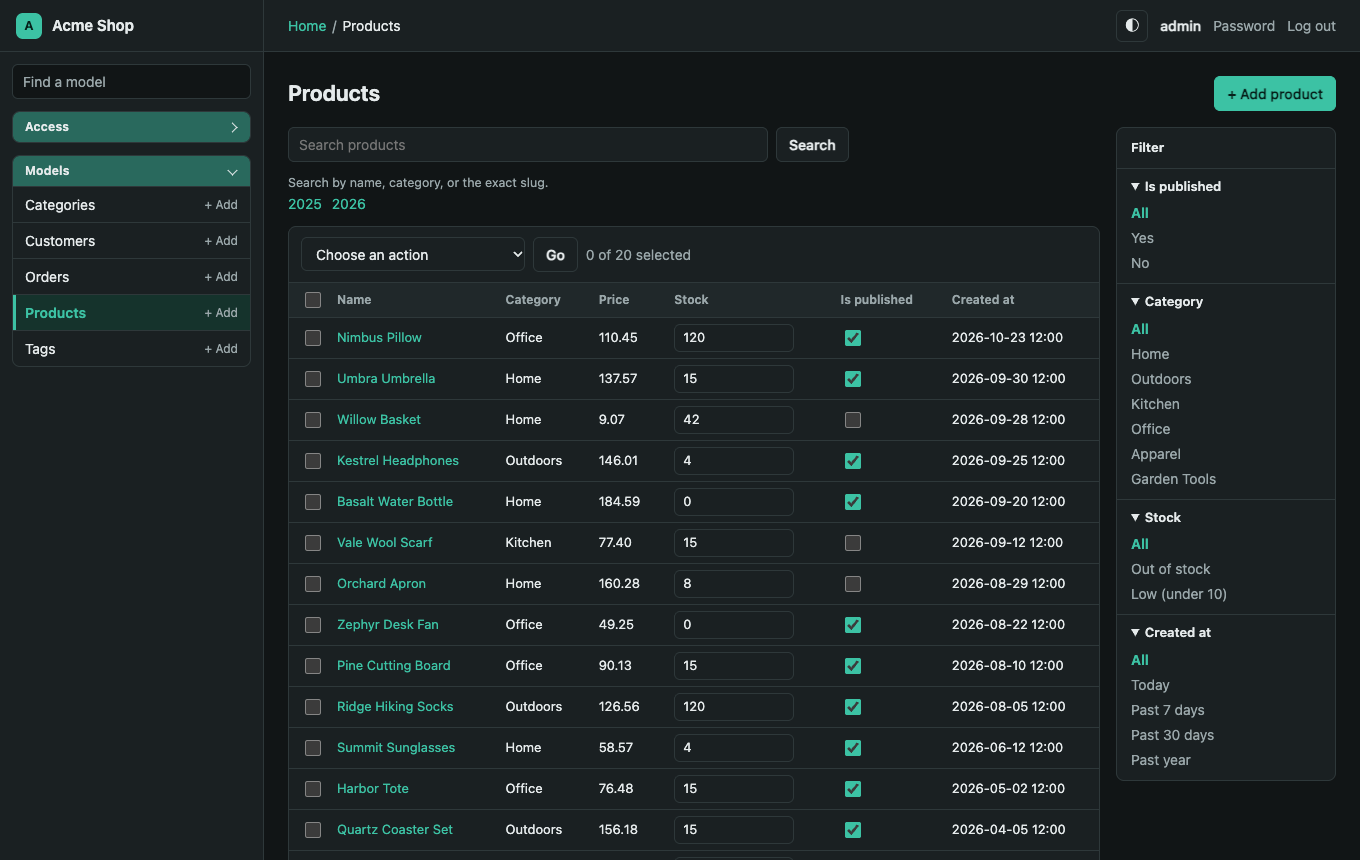
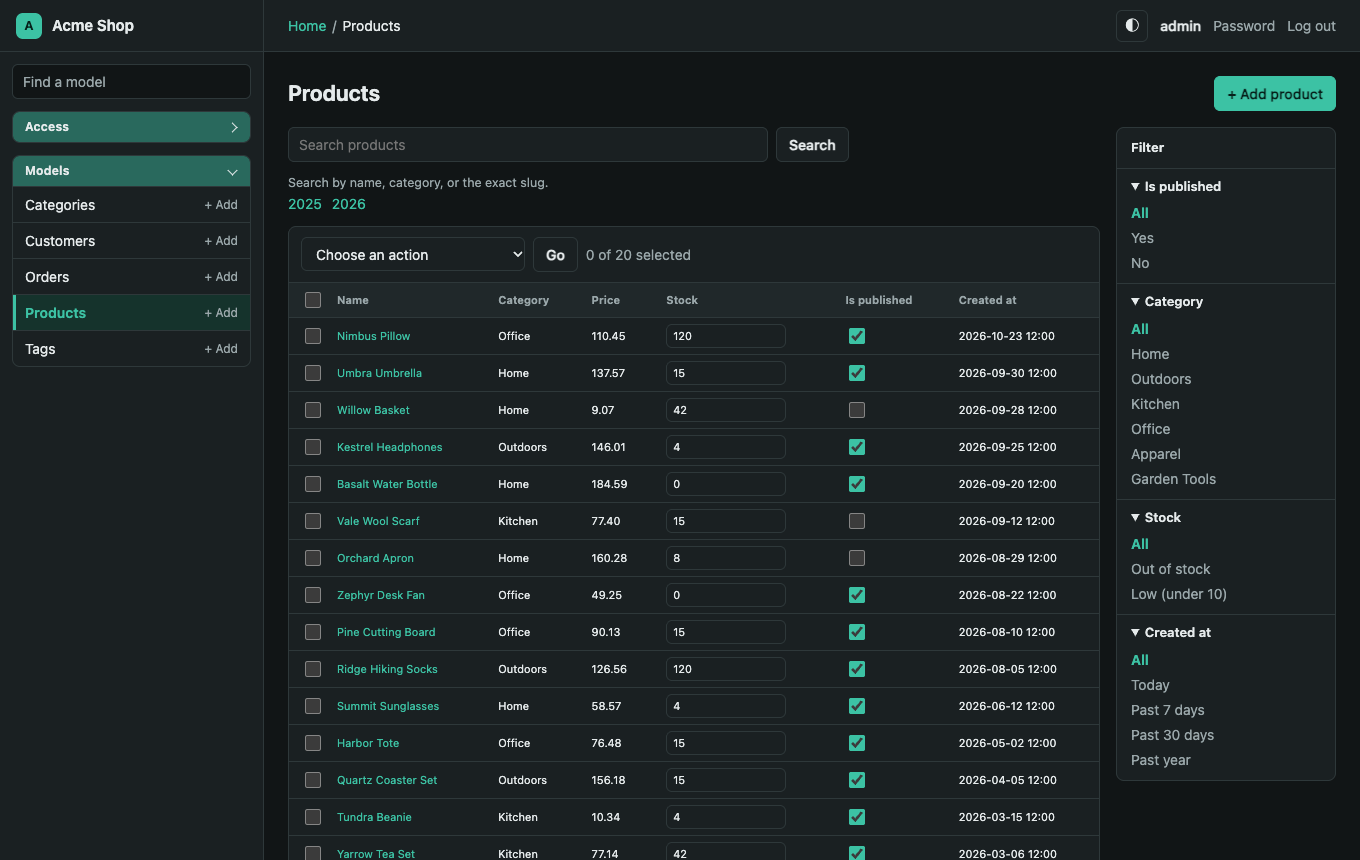
style: set table text to 11px

diff --git a/src/fastapi_panel/static/panel.css b/src/fastapi_panel/static/panel.css
@@ -216,12 +216,12 @@ input[type="checkbox"] { width: 16px; height: 16px; accent-color: var(--accent);
 
 /* Tables */
 .table-wrap { overflow-x: auto; }
-.table { width: 100%; border-collapse: collapse; font-size: 13px; }
+.table { width: 100%; border-collapse: collapse; font-size: 11px; }
 .table th, .table td {
   text-align: start; padding: 9px 12px; border-bottom: 1px solid var(--border); vertical-align: middle;
 }
 .table thead th {
-  font-size: 12px; font-weight: 650; color: var(--muted); background: var(--surface-alt); white-space: nowrap;
+  font-weight: 650; color: var(--muted); background: var(--surface-alt); white-space: nowrap;
 }
 .table thead th a { color: inherit; }
 .table thead th.sorted, .table thead th.sorted a { color: var(--accent); }
@@ -230,7 +230,7 @@ input[type="checkbox"] { width: 16px; height: 16px; accent-color: var(--accent);
 .table-list tbody tr:hover { background: var(--surface-alt); }
 .table-list tbody tr.selected { background: var(--accent-soft); }
 .table-list th, .table-list td { padding-block: 6px; }
-.table-list input:not([type="checkbox"]), .table-list select { width: 120px; min-height: 28px; padding: 3px 8px; }
+.table-list input:not([type="checkbox"]), .table-list select { width: 120px; min-height: 24px; padding: 2px 6px; }
 .align-end { text-align: end !important; white-space: nowrap; }
 .col-check { width: 36px; padding-inline-end: 0 !important; }
 .empty { text-align: center !important; padding: 40px 16px !important; color: var(--muted); }
